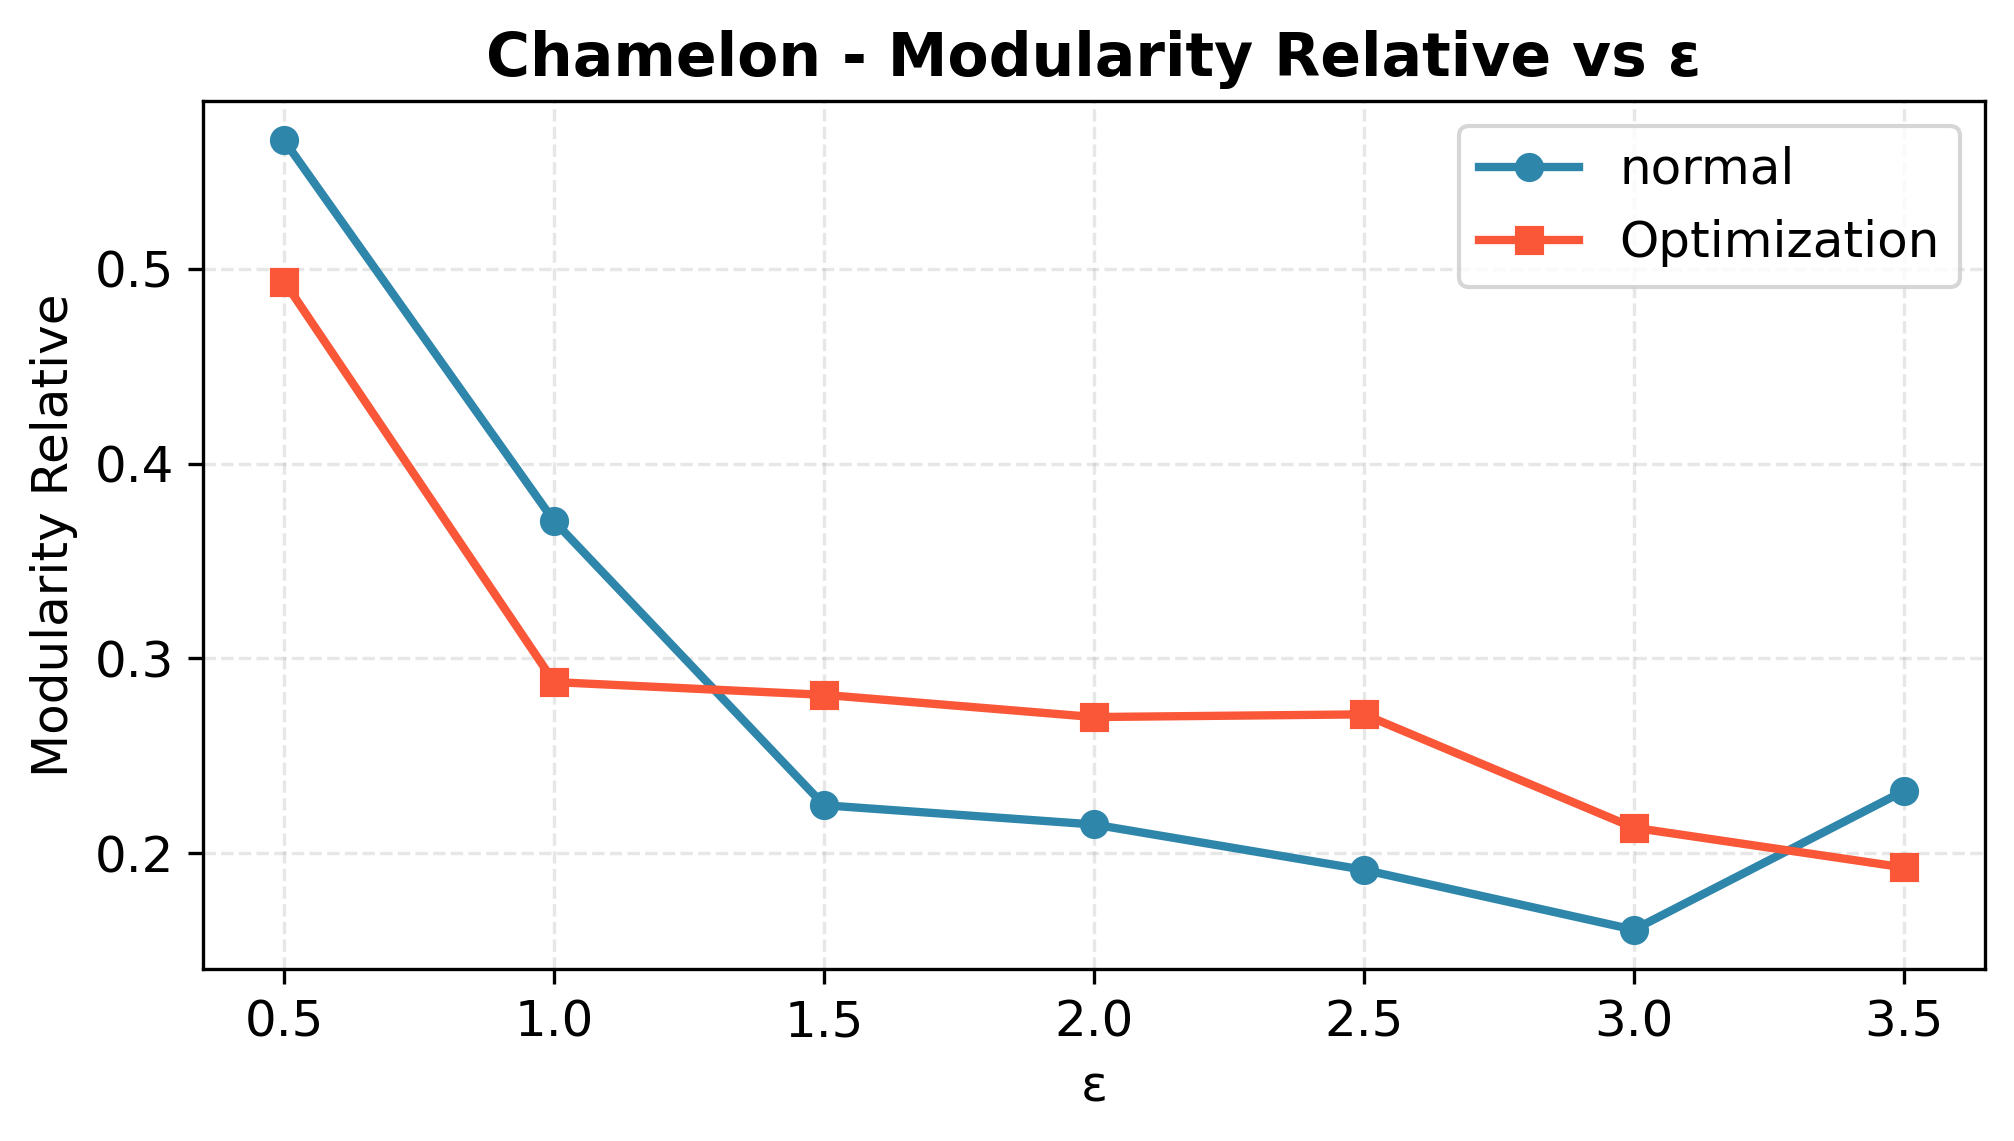
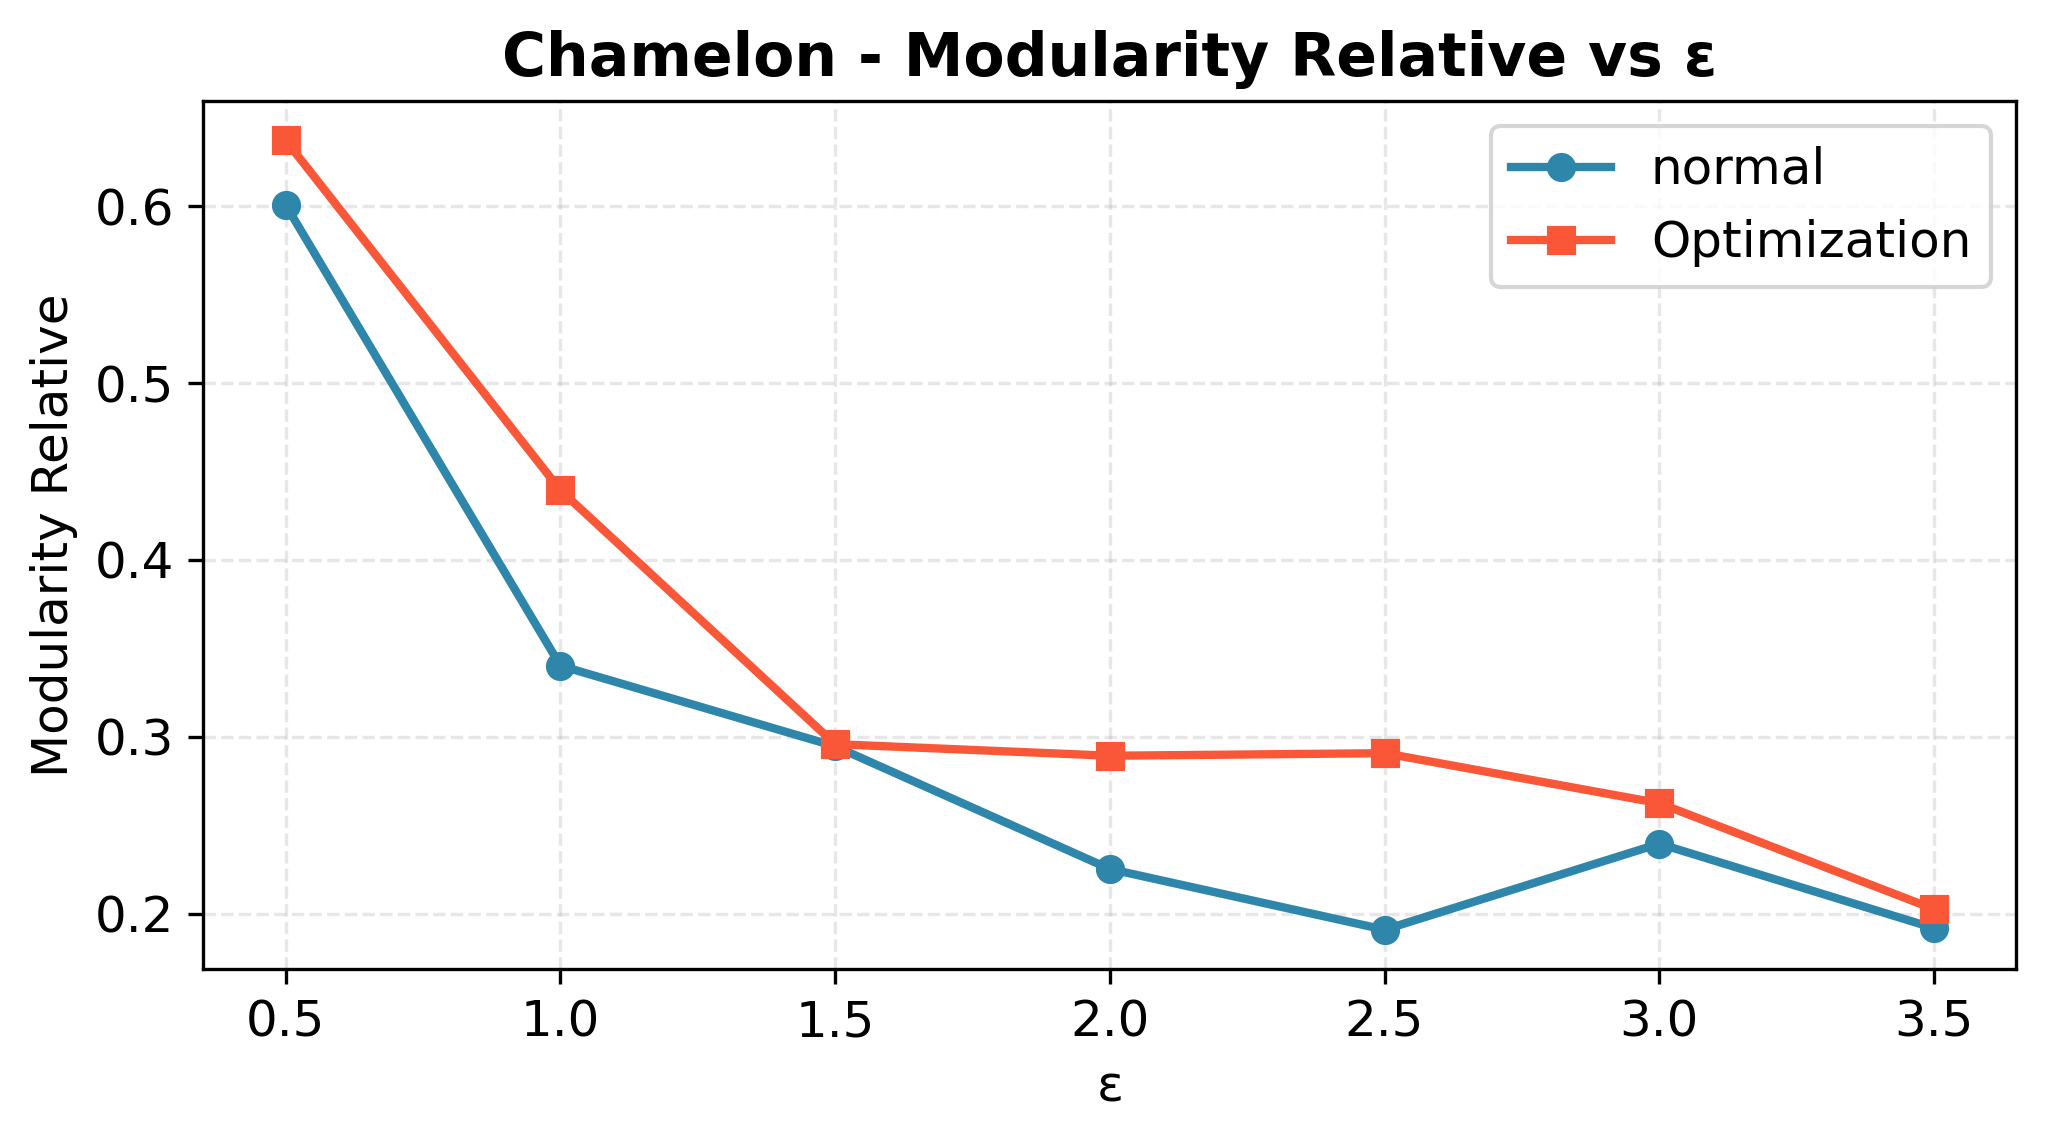
暂存

diff --git a/draw/draw.py b/draw/draw.py
@@ -13,26 +13,26 @@ print("图表将保存到:", save_dir)  # 确认路径
 dataset_name = "Chamelon"
 eps = [0.5, 1, 1.5, 2, 2.5, 3, 3.5]
 
-all_nmi_arr= [np.float64(0.10526870981676559), np.float64(0.16857673701970527), np.float64(0.22277931721013577), np.float64(0.2433260953880237), np.float64(0.2634230492279347), np.float64(0.27653664804611816), np.float64(0.26831634877029376)]
-all_evc_overlap= [np.float64(0.15), np.float64(0.5863636363636364), np.float64(0.8454545454545455), np.float64(0.8227272727272729), np.float64(0.8636363636363636), np.float64(0.8818181818181816), np.float64(0.8818181818181821)] 
-all_evc_MAE= [np.float64(0.02397476386084223), np.float64(0.007920292233807394), np.float64(0.001846043957539551), np.float64(0.0026364400338896024), np.float64(0.0023059598326851077), np.float64(0.002526379917922636), np.float64(0.003120036097720605)]
-all_deg_kl= [np.float64(2.358138791906158), np.float64(1.709091395278491), np.float64(1.1884001971623517), np.float64(1.1456465222005425), np.float64(1.133057407428656), np.float64(1.0449751568896866), np.float64(0.9962525032591498)]
-all_diam_rel= [np.float64(0.5454545454545453), np.float64(0.48181818181818165), np.float64(0.39090909090909093), np.float64(0.44545454545454544), np.float64(0.3818181818181817), np.float64(0.3545454545454545), np.float64(0.32727272727272727)]
-all_cc_rel= [np.float64(0.8236013406769389), np.float64(0.24115588687731132), np.float64(0.08336667350628123), np.float64(0.06852707229124066), np.float64(0.07331441177652429), np.float64(0.04752155845381608), np.float64(0.08066886900598663)]
-all_mod_rel= [np.float64(0.5659459731137823), np.float64(0.37044396353984155), np.float64(0.22459102438326978), np.float64(0.21469693628019543), np.float64(0.19143063367803728), np.float64(0.16067173993489706), np.float64(0.2318674349078159)]
-
+all_nmi_arr= [np.float64(0.10523872122342862), np.float64(0.18201631385213246), np.float64(0.22179437408868896), np.float64(0.23811258043327704), np.float64(0.23898566478945232), np.float64(0.24988371588399044), np.float64(0.26023775730762505)]
+all_evc_overlap= [np.float64(0.17272727272727273), np.float64(0.7181818181818181), np.float64(0.8136363636363635), np.float64(0.8454545454545455), np.float64(0.8681818181818182), np.float64(0.8954545454545453), np.float64(0.85)]
+all_evc_MAE= [np.float64(0.02209230923017249), np.float64(0.005618313369060798), np.float64(0.002498791621058867), np.float64(0.0026336845112355407), np.float64(0.002759215272566287), np.float64(0.0024736850827629135), np.float64(0.0031899339051606967)]
+all_deg_kl= [np.float64(2.2377775365969628), np.float64(1.5416550094583878), np.float64(1.3111725943117463), np.float64(1.1309561132258321), np.float64(1.0399450714934253), np.float64(1.0754773944859601), np.float64(1.0380993339203115)]
+all_diam_rel= [np.float64(0.5454545454545453), np.float64(0.48181818181818176), np.float64(0.39090909090909093), np.float64(0.38181818181818183), np.float64(0.41818181818181815), np.float64(0.41818181818181815), np.float64(0.39999999999999997)]
+all_cc_rel= [np.float64(0.8368572289676891), np.float64(0.19305410320045427), np.float64(0.1998470881142118), np.float64(0.12273428660896528), np.float64(0.05549090444139397), np.float64(0.08425864354059226), np.float64(0.08569504933399678)]
+all_mod_rel= [np.float64(0.6006249964876619), np.float64(0.34017709199121343), np.float64(0.2946281049026968), np.float64(0.22527191798664542), np.float64(0.19093964419115178), np.float64(0.2395541994418727), np.float64(0.1918126211577144)]
 nmi_1, overlap_1, mae_1, deg_kl_1, diam_1, cc_1, mod_1 = \
     all_nmi_arr, all_evc_overlap, all_evc_MAE, all_deg_kl, all_diam_rel, all_cc_rel, all_mod_rel
 
 
 # ===================== 数据2（你刚发的新数据） =====================
-all_nmi_arr= [np.float64(0.12927277478162888), np.float64(0.22039620669330046), np.float64(0.23059417148767175), np.float64(0.26728189999274654), np.float64(0.2667787645430639), np.float64(0.27202676186146235), np.float64(0.2807249029771147)]
-all_evc_overlap= [np.float64(0.32727272727272727), np.float64(0.6500000000000001), np.float64(0.759090909090909), np.float64(0.8545454545454545), np.float64(0.8181818181818181), np.float64(0.831818181818182), np.float64(0.8727272727272727)]
-all_evc_MAE= [np.float64(0.017949918040597347), np.float64(0.005898370329408269), np.float64(0.006711207206148177), np.float64(0.0055874121401625195), np.float64(0.006396112699050584), np.float64(0.005451724638477334), np.float64(0.004229946576010611)]
-all_deg_kl= [np.float64(2.8316222041283137), np.float64(1.4718477807678472), np.float64(1.2406959695142734), np.float64(1.2377980016307524), np.float64(1.1937261530256), np.float64(1.1676837107277493), np.float64(1.1494860314924484)]
-all_diam_rel= [np.float64(0.4545454545454544), np.float64(0.29999999999999993), np.float64(0.3272727272727272), np.float64(0.23636363636363633), np.float64(0.20909090909090908), np.float64(0.23636363636363633), np.float64(0.2636363636363636)]
-all_cc_rel= [np.float64(0.6999143117801654), np.float64(0.19434639166122375), np.float64(0.15844766323028264), np.float64(0.13932897996236523), np.float64(0.16274242665922906), np.float64(0.09653012322772145), np.float64(0.12001308304910956)]
-all_mod_rel= [np.float64(0.4935185725098082), np.float64(0.2878296383763083), np.float64(0.2812748922169501), np.float64(0.2698683355213888), np.float64(0.27125006505718785), np.float64(0.21304252681625618), np.float64(0.19264535035594516)]
+all_nmi_arr= [np.float64(0.014652510632868774), np.float64(0.08071574859574708), np.float64(0.1539515457054395), np.float64(0.1743988398884738), np.float64(0.19119114251546945), np.float64(0.2252864369169283), np.float64(0.23388235502932608)]
+all_evc_overlap= [np.float64(0.15), np.float64(0.6681818181818182), np.float64(0.8272727272727272), np.float64(0.8227272727272726), np.float64(0.8545454545454545), np.float64(0.8272727272727274), np.float64(0.85)]
+all_evc_MAE= [np.float64(0.019342802507042962), np.float64(0.0034027822441206187), np.float64(0.0020509272307490446), np.float64(0.0023982968895069597), np.float64(0.002703899724132495), np.float64(0.002945902891508408), np.float64(0.002733912478444264)]
+all_deg_kl= [np.float64(10.650502624200037), np.float64(4.0515419695855135), np.float64(1.1046117695552264), np.float64(1.057270709468416), np.float64(0.975985672160939), np.float64(0.9286336699979287), np.float64(1.014666864618327)]
+all_diam_rel= [np.float64(0.6363636363636364), np.float64(0.5454545454545455), np.float64(0.4545454545454544), np.float64(0.44545454545454544), np.float64(0.41818181818181815), np.float64(0.3818181818181818), np.float64(0.3909090909090909)]
+all_cc_rel= [np.float64(0.8475837467896932), np.float64(0.21257773861641094), np.float64(0.056955250236754386), np.float64(0.07689813512673721), np.float64(0.0948388986569396), np.float64(0.08575628067911567), np.float64(0.04283042781497386)]
+all_mod_rel= [np.float64(0.6371414426955037), np.float64(0.4393840597641863), np.float64(0.29584542391225105), np.float64(0.2892823489214461), np.float64(0.2907310486242557), np.float64(0.26247212759247673), np.float64(0.20257029571601876)]
+
 
 nmi_2, overlap_2, mae_2, deg_kl_2, diam_2, cc_2, mod_2 = \
     all_nmi_arr, all_evc_overlap, all_evc_MAE, all_deg_kl, all_diam_rel, all_cc_rel, all_mod_rel

diff --git a/main.py b/main.py
@@ -78,6 +78,9 @@ def main_func(dataset_name='Chamelon',eps=[0.5,1,1.5,2,2.5,3,3.5],e1_r=1/3,e2_r=
         # 噪声参数
         ed = e3
         ev = e3
+
+        # ed = e3 * (1/3)   # 边统计，灵敏度1，分配更少
+        # ev = e3 * (2/3)   # 度序列，灵敏度2，分配更多
         ev_lambda = 1/ed
         dd_lam = 2/ev
 
@@ -97,16 +100,16 @@ def main_func(dataset_name='Chamelon',eps=[0.5,1,1.5,2,2.5,3,3.5],e1_r=1/3,e2_r=
 
             t1 = time.time()
 
-            # mat1_pvarr1 = community_init(mat0,mat0_graph,epsilon=e1,nr=N,t=t)
+            mat1_pvarr1 = community_init(mat0,mat0_graph,epsilon=e1,nr=N,t=t)
             
-            mat1_pvarr1 = community_init_dp_neighbor_fixed(
-                mat0, mat0_graph,
-                epsilon=e1,
-                t=t,
-                alpha=0.3,
-                beta=0.3,
-                C=None
-            )
+            # mat1_pvarr1 = community_init_dp_neighbor_fixed(
+            #     mat0, mat0_graph,
+            #     epsilon=e1,
+            #     t=t,
+            #     alpha=0.3,
+            #     beta=0.3,
+            #     C=None
+            # )
             
 
 
@@ -180,6 +183,27 @@ def main_func(dataset_name='Chamelon',eps=[0.5,1,1.5,2,2.5,3,3.5],e1_r=1/3,e2_r=
                         for ind in range(ev1):
                             mat2[c1[ind],c2[ind]] = 1
                             mat2[c2[ind],c1[ind]] = 1
+                pi = mat1_pvs[i] 
+                wi = np.array(dd_s[i], dtype=float) + 1e-6
+
+                # 加一个软上限：对已经超过平均度的节点降权
+                # mean_deg_i = np.mean(wi)
+                # wi = np.minimum(wi, mean_deg_i * 2)  # 超过2倍均值的截断
+                # wi = wi / wi.sum()
+                # for j in range(i+1,comm_n):
+                #     ev1 = ev_mat[i,j]
+                #     pj = mat1_pvs[j]
+                #     if ev1 > 0:
+                #         wj = np.array(dd_s[j], dtype=float) + 1e-6
+                #         wj = wj / wj.sum()
+                #         c1 = np.random.choice(pi, ev1, p=wi)
+                #         c2 = np.random.choice(pj, ev1, p=wj)
+                #         for ind in range(ev1):
+                #             mat2[c1[ind],c2[ind]] = 1
+                #             mat2[c2[ind],c1[ind]] = 1
+
+
+
             # 对称化邻接矩阵                
             mat2 = mat2 + np.transpose(mat2)
             mat2 = np.triu(mat2,1)
@@ -194,7 +218,7 @@ def main_func(dataset_name='Chamelon',eps=[0.5,1,1.5,2,2.5,3,3.5],e1_r=1/3,e2_r=
 
             # ===== [新增] Step 6.5: 后处理剪枝 =====
             # mat2 = post_process_prune(mat2, mat1_pvs, dd_s, ev_mat, comm_n)
-            mat2 = post_process_edge_swap(mat2, mat1_pvs, comm_n, n_iter_ratio=0.5)
+            # mat2 = post_process_edge_swap(mat2, mat1_pvs, comm_n, n_iter_ratio=0.5)
 
             # ===== Step7: 计算指标 =====
             mat2_edge = mat2_graph.number_of_edges()
